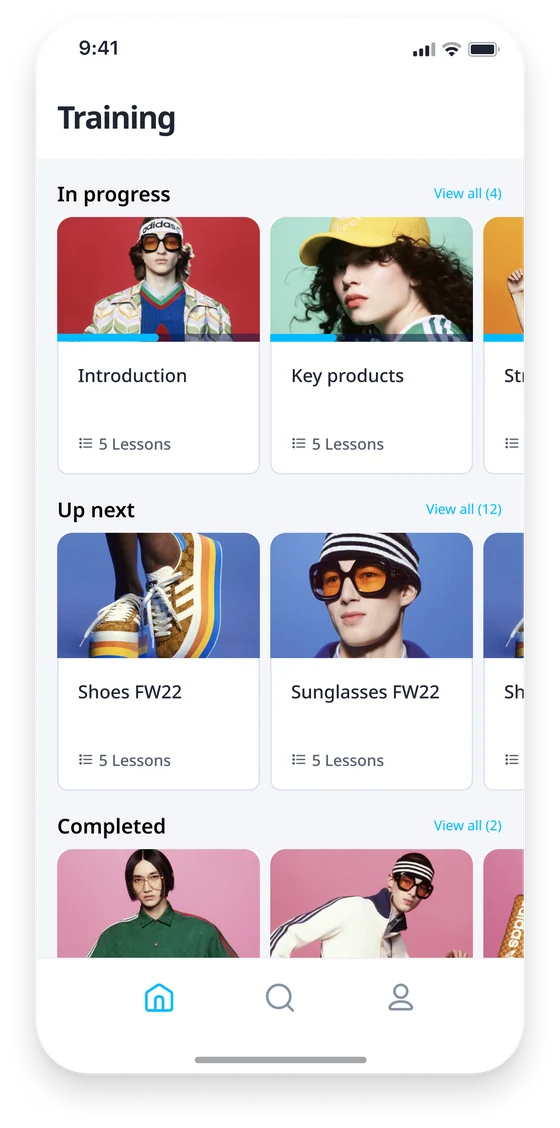
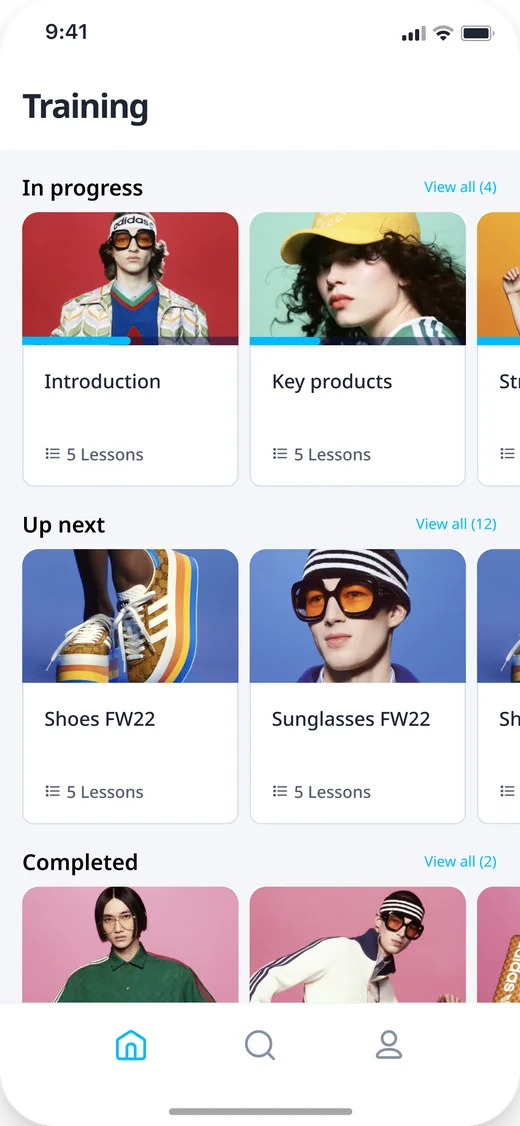
EdApp before and after: same size, same phone frame

diff --git a/src/index.css b/src/index.css
@@ -824,7 +824,7 @@ button { font: inherit; color: inherit; }
 .ba2-col figcaption { font: 300 15px/1.5 var(--text); color: var(--muted); text-align: center; }
 .ba2-col figcaption b { font-weight: 600; color: var(--ink); }
 .ba2-frame { width: 100%; background: #0F1012; border-radius: 34px; padding: 9px; box-shadow: 0 26px 40px -24px rgba(5, 40, 90, .5); }
-.ba2-frame img { display: block; width: 100%; height: auto; border-radius: 26px; }
+.ba2-frame img { display: block; width: 100%; height: auto; aspect-ratio: 520 / 1125; object-fit: cover; border-radius: 26px; }
 .ba2-device { width: 104%; height: auto; filter: drop-shadow(0 26px 30px rgba(5, 40, 90, .3)); }
 .ba2-arrow { font-size: 36px; color: #1F6FEB; }
 @media (max-width: 760px) { .ba2-arrow { transform: rotate(90deg); } }

diff --git a/src/pages/EdApp.tsx b/src/pages/EdApp.tsx
@@ -71,7 +71,7 @@ export default function EdApp() {
           </figure>
           <span className="ba2-arrow" aria-hidden="true">→</span>
           <figure className="ba2-col">
-            <img className="ba2-device" src="/work/edapp/after.webp" alt="The new homescreen: in progress, up next and completed rows" width="560" height="1128" loading="lazy" />
+            <div className="ba2-frame"><img src="/work/edapp/after.webp" alt="The new homescreen: in progress, up next and completed rows" width="520" height="1126" loading="lazy" /></div>
             <figcaption><b>After.</b> In progress, up next and completed, all at a glance.</figcaption>
           </figure>
         </div>
